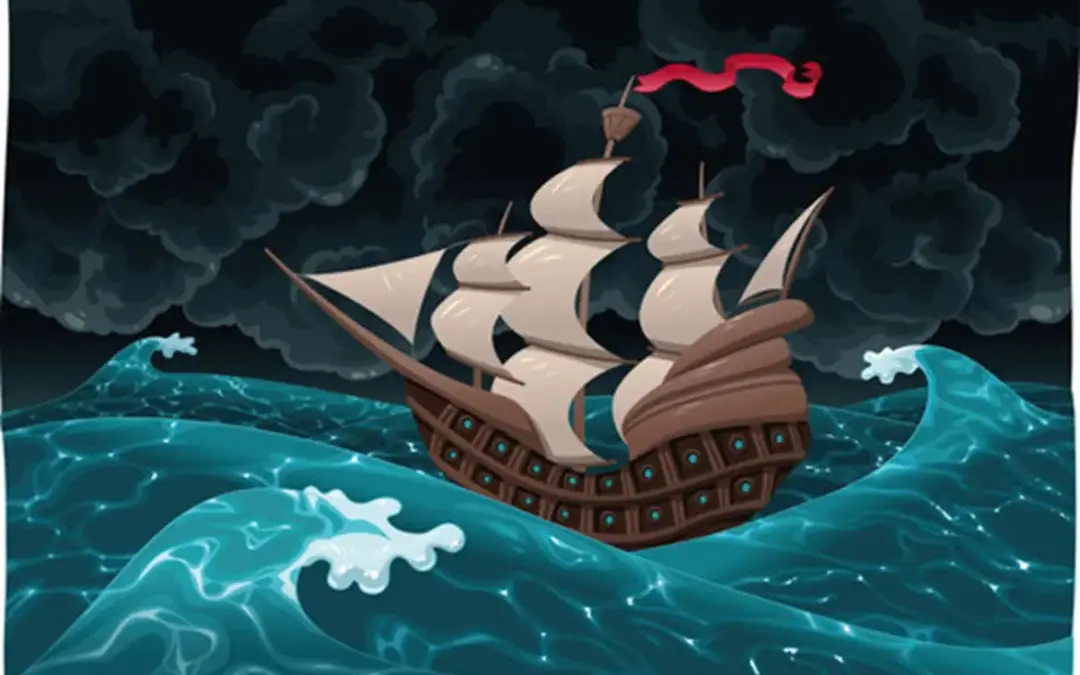
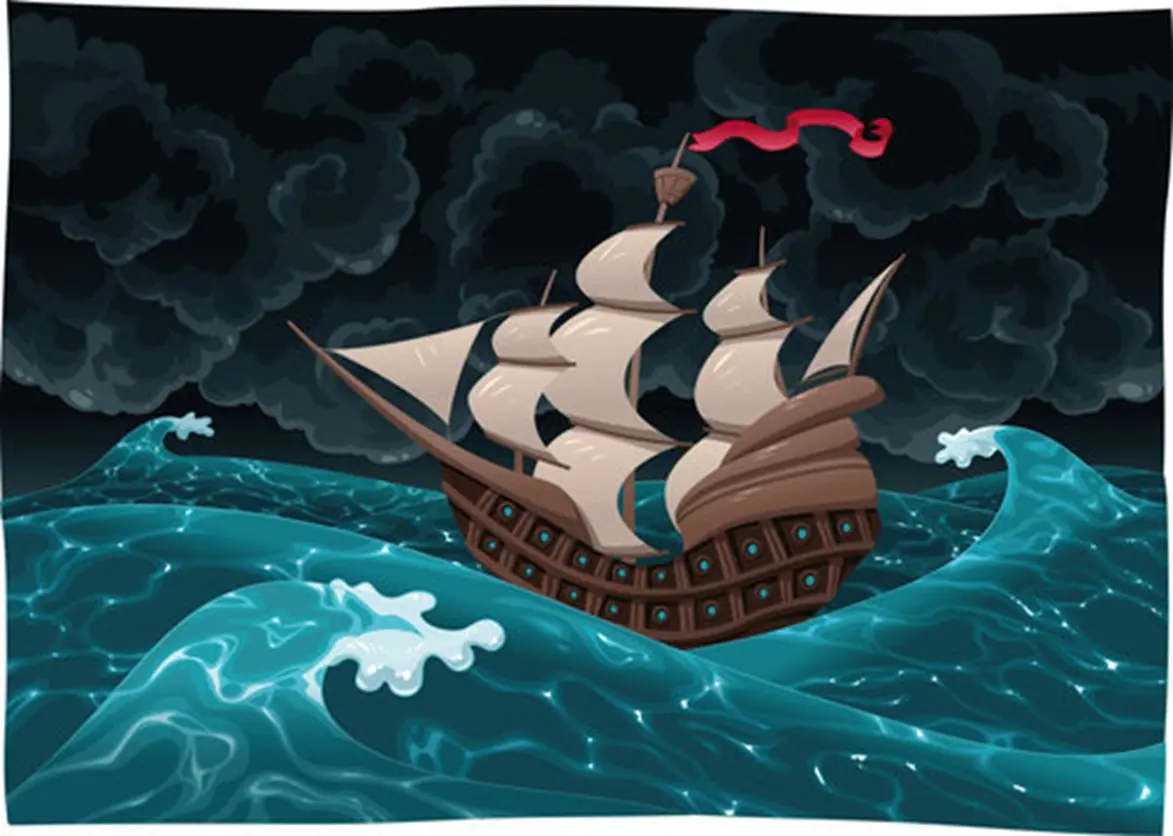
Fix blog image layout and use sharper featured photo.
Remove duplicate hero on blogs index; show full-width featured image on articles with proper srcset and sizing.

diff --git a/public/css/site.css b/public/css/site.css
@@ -800,11 +800,18 @@ p {
   max-width: none;
 }
 
+.page-hero-image {
+  overflow: hidden;
+  max-height: 400px;
+  background: #ddd;
+}
+
 .page-hero-image img {
   width: 100%;
   height: 100%;
-  min-height: 300px;
+  max-height: 400px;
   object-fit: cover;
+  object-position: center center;
 }
 
 .post-meta {
@@ -852,6 +859,10 @@ p {
 }
 
 .content-body img {
+  display: block;
+  width: 100%;
+  max-width: 520px;
+  height: auto;
   margin: 2rem auto;
   border-radius: 4px;
   box-shadow: 0 8px 28px rgba(0, 0, 0, 0.08);
@@ -873,6 +884,22 @@ p {
 }
 
 /* Blog index */
+.article-featured-banner {
+  padding: 0 0 2rem;
+  background: var(--va-hero-bg);
+  border-bottom: 1px solid var(--va-border);
+}
+
+.article-featured-img {
+  display: block;
+  width: 100%;
+  max-width: 760px;
+  height: auto;
+  margin: 0 auto;
+  border-radius: 4px;
+  box-shadow: 0 10px 32px rgba(0, 0, 0, 0.08);
+}
+
 .blog-grid {
   display: grid;
   grid-template-columns: repeat(auto-fit, minmax(300px, 1fr));
@@ -901,6 +928,7 @@ p {
   width: 100%;
   aspect-ratio: 16 / 10;
   object-fit: cover;
+  object-position: center center;
   transition: transform 0.35s ease;
 }
 